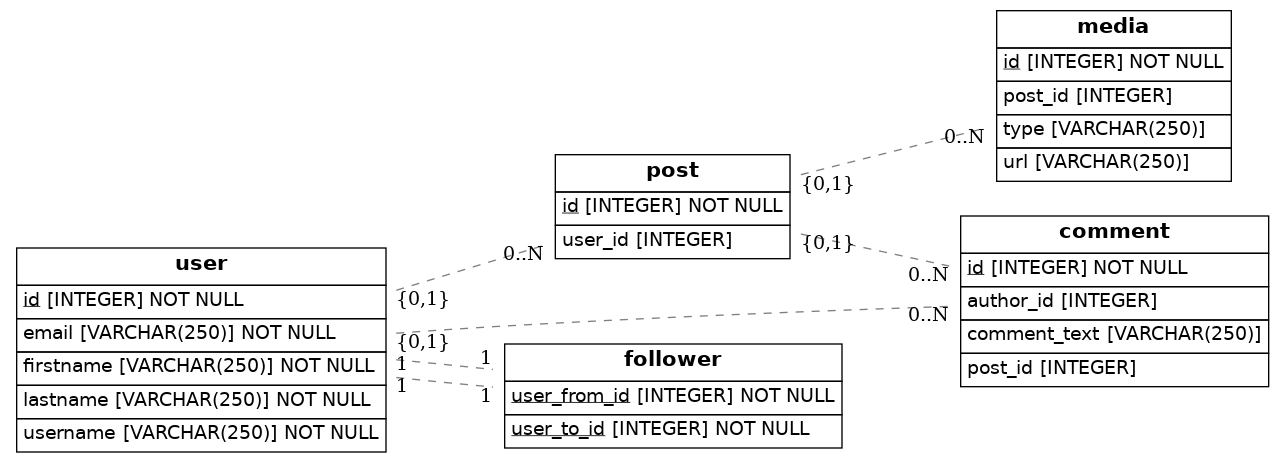
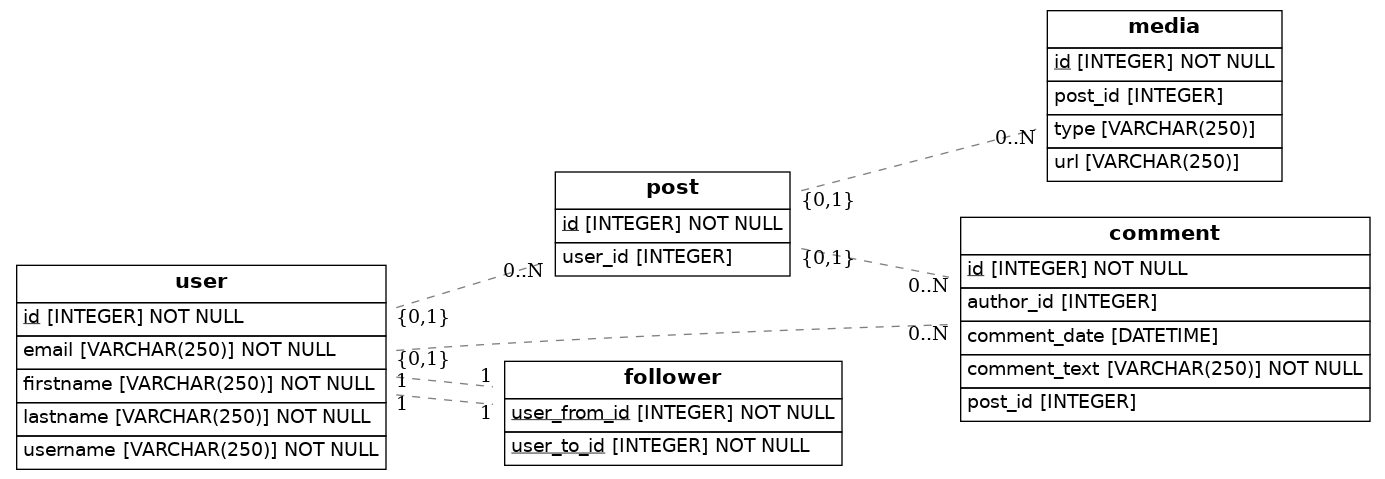
entrega

diff --git a/src/models.py b/src/models.py
@@ -1,6 +1,6 @@
 import os
 import sys
-from sqlalchemy import Column, ForeignKey, Integer, String
+from sqlalchemy import Column, ForeignKey, Integer, String,DateTime
 from sqlalchemy.orm import relationship, declarative_base
 from sqlalchemy import create_engine
 from eralchemy2 import render_er
@@ -54,7 +54,8 @@ class Media(Base):
 class Comment(Base):
     __tablename__ = 'comment'
     id = Column(Integer, primary_key=True)
-    comment_text = Column(String(250))
+    comment_text = Column(String(250), nullable=False)
+    comment_date = Column(DateTime)
     author_id = Column(Integer, ForeignKey('user.id'))
     autor = relationship('User', backref='comment', lazy=True)
     post_id = Column(Integer, ForeignKey('post.id'))
